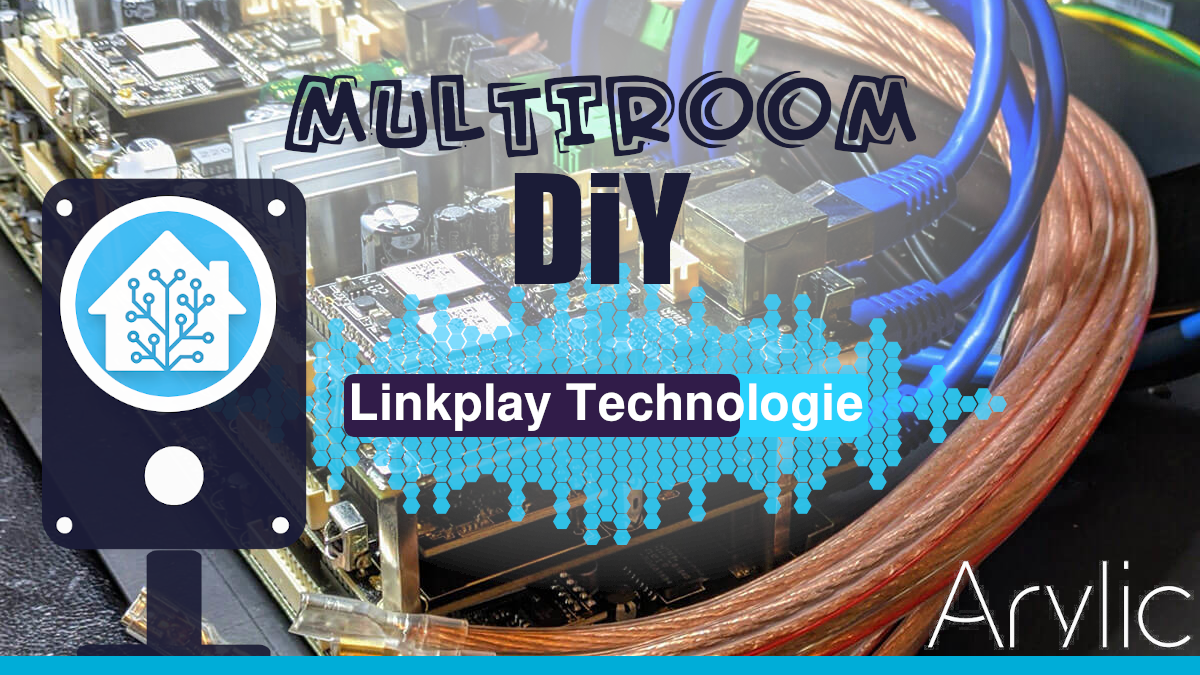
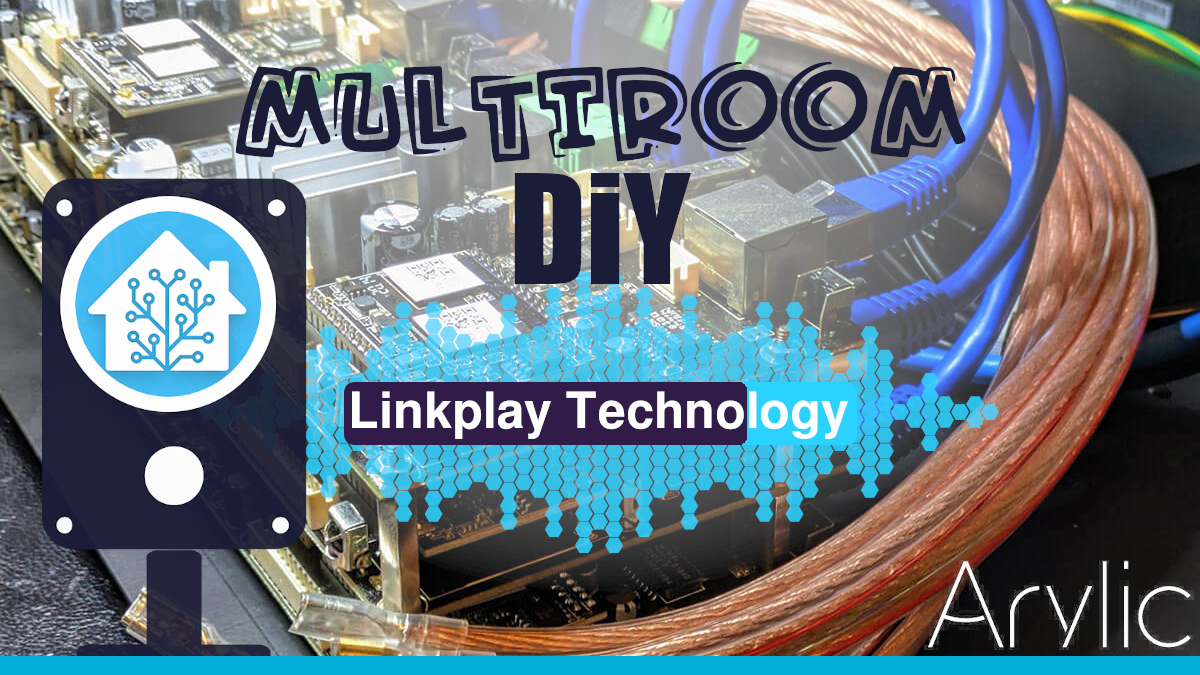
post 39 online

Changed region(s): [[0.2467, 0.3733, 0.8633, 0.84], [0.185, 0.0933, 0.8017, 0.2489]]

diff --git a/_posts/fr/2023-01-18-decouverte-linkplay-alternative-airplay-sonos.md b/_posts/fr/2023-01-18-decouverte-linkplay-alternative-airplay-sonos.md
@@ -4,14 +4,14 @@ title: "Linkplay et Up2stream le multiroom DIY de qualité"
 description: "Découverte du protocole linkplay probablement l'alternative qualité prix la plus intéressante pour faire du multiroom face à airplay et sonos entre autres, le tout intégré dans homeassistant."
 layout: post
 author: Nico
-date: 2023-01-10 18:46
+date: 2023-01-18 18:46
 last_modified_at: 
 categories: [Domotique, Haade-lab, Home-Assistant]
 tags: []
 image: 'multiroom-arylic-linkplay-diy.png'
 toc: true
 beforetoc: ''
-published: false
+published: true
 noindex: false
 sitemap:
   changefreq: 'monthly'
@@ -28,20 +28,21 @@ sourcelink:
   - https://github.com/nagyrobi/home-assistant-custom-components-linkplay#installation
 ---
 
-Voilà quelque temps que je voulais rédiger cet article, comme je ne l'ai pas fait après l'achat de la carte Up2stream Amp V3, mais deux ans plus tard, je peux dire que ce produit à été éprouvé et te faire un retour sur la fiabilité du système linkplay Multi-room.
+Voilà quelque temps que je voulais rédiger cet article, comme je ne l'ai pas fait après l'achat de la carte Up2stream Amp V3, **mais deux ans plus tard**, je peux dire que ce produit a été éprouvé et te faire un retour sur la fiabilité du système linkplay Multi-room.
 
 **prérequis:** 
 
 - 1 [carte Up2stream amp V3 ou V4](https://amzn.to/3XQ1tdN){: target="_blank"}
 - 1 module [d'alimentation multiple Meanwell 12-24v](https://s.click.aliexpress.com/e/_DC0ZHPD){: target="_blank"}
 - 1 ou plusieurs [cordons d'alimentations **093**](https://s.click.aliexpress.com/e/_DnCLRVN){: target="_blank"}
+- Du [cable pour haut-parleur](https://amzn.to/3Xn44vA){: target="_blank"}
 - 1 enceinte stéréo ou 2 monos aux choix minimum 50w ( j'ai choisi une [monitor audio c180 T-2 stéréo](https://www.monitoraudio.com/en/product-ranges/core/c180-t2/){: target="_blank"} )
 - 1 coffret de [rangement Debflex 315cm](https://amzn.to/3CMTNAR){: target="_blank"}
 
 {% include product-embed.html image="arylic-up2stream-amp-v4-multiroom.png" title="Arylic Amp V4" brand="Arylic" description="Up2Stream – amplificateur Audio sans fil V4, 50W x 2, carte son, Multiroom, Streaming sans fil, stéréo, décodage DAC, réception Audio" affiliate="_DcuIO5Z" amazlink="3ZKq8SK" %}
 
 
-# Ce qui m'intéressait 
+# Ce qui m'a séduit, le "faire soi même"
 
 Je me suis orienté naturellement vers la **technologie linkplay** car elle permet aux fabriquants de créer toutes sortes de produits ( diy ou fini ) tout en réduisant les risques liés à la conception des produits.
 
@@ -54,22 +55,28 @@ Je me suis orienté naturellement vers la **technologie linkplay** car elle perm
 - Une performance sans fil optimales pour le Wi-Fi et le Bluetooth avec une optimisation RF minutieuse et un étalonnage de la production
 - Les modules en raison du grand volume d'expéditions annuelles
 
-Linkplay fabrique des modules:
+**Linkplay fabrique des modules:**
 
 - wifi
 - contrôle à la voix
 - bluetooth
 - iot
 
-Les modules linkplay sont compatibles avec beaucoup de [protocoles et de services de musique en streaming](https://www.linkplay.com/app){: target="_blank"} en autre:
+Les modules linkplay sont compatibles avec beaucoup de [protocoles et de services de musique en streaming](https://www.linkplay.com/app){: target="_blank"} entre autre:
 
 Spotify, Tidal, Airplay, Airplay 2, Tunein, Deezer, Napster, Dlna, Qobuz, etc...
 
 #  Companion app ( 4stream )
 
-|![image animée de l'application 4stream par linkplay]({{ site.baseurl}}/assets/images/posts/{{ page.guid }}/4stream.webp{{ cachebuster }}){: width="242" height="525"}|[lien direct application companion google play **noté 2,9**](https://play.google.com/store/apps/details?id=com.wifiaudio.Stream&hl=fr&gl=US&pli=1){: target="_blank"}
+Parlons de l'application qui est nécessaire pour la mise à jour du firmware, pour le reste tu peux contrôler ton système directement dans Homeassistant.
+
+![image animée de l'application 4stream par linkplay]({{ site.baseurl}}/assets/images/posts/{{ page.guid }}/4stream.webp{{ cachebuster }}){: width="242" height="525"}
+
+[lien direct application companion google play **noté 2,9**](https://play.google.com/store/apps/details?id=com.wifiaudio.Stream&hl=fr&gl=US&pli=1){: target="_blank"}
+
 [lien direct application companion App store **noté 3,1**](https://apps.apple.com/fr/app/4stream/id1446722739){: target="_blank"}
-Malgré une notation faible c'est un logiciel fiable, mais pour tout de dire je l'utilise peut car d'une part j'utilise l'intégration linkplay dans homeassistant mais aussi directement Spotify.|
+
+Malgré une notation faible c'est un logiciel fiable, mais pour tout de dire je l'utilise peut car d'une part j'utilise l'intégration linkplay dans homeassistant mais aussi directement dans Spotify.
 
 # Utilisation des produits [Up2stream](https://fr.aliexpress.com/store/5047150?spm=a2g0o.detail.1000007.1.1214233a9V1zdT){: target="_blank"}
 
@@ -89,7 +96,8 @@ Voilà j'ai pu faire l'installation au grenier dans une boîte de dérivation [d
 2. Une [carte Up2stream amp V3](https://amzn.to/3XQ1tdN){: target="_blank"}, actuellement remplacé par une V4
 3. [Un switch Tp-link](https://amzn.to/3ZAThj4){: target="_blank"} afin de pouvoir y connecter plusieurs cartes en rj45
 
-L'avantage de la cartte up2stream réside dans le fait qu'on puisse s'y connecter en rj45, wifi ou Bluetooth
+L'avantage de la carte up2stream réside dans le fait qu'on puisse s'y connecter en rj45, wifi ou Bluetooth.
+> perso j'ai choisi la stabilité du rj45
 
 # Intégration dans Homeassistant avec [HACS](https://github.com/hacs/integration){: target="_blank"}.
 
@@ -116,6 +124,12 @@ media_player:
       sources: {}
       {% endhighlight %}
 
+### Rendu dans HA
+
+dans les paramétrages de homeassistant tu pourras parcourir les médias, contrôler le multiroom, les différentes sources audio, le mode sonore, le volume et bien d'autres choses.
+
+{% picture posts/{{ page.guid }}/home-assistant-integration-multiroom.png --alt integration linkplay dans homeassistant --img width="263" height="570" %}
+
 # Mode Multiroom
 
 Les appareils Linkplay prennent en charge le multiroom en deux modes :
@@ -123,7 +137,12 @@ Les appareils Linkplay prennent en charge le multiroom en deux modes :
 - Mode WiFi direct, où le maître se transforme en point d'accès caché et les esclaves s'y connectent directement. L'avantage est qu'il s'agit d'une connexion directe dédiée entre les enceintes, avec des paramètres réseau optimisés en usine pour le streaming. 
 - Mode routeur, où le maître et les esclaves se connectent via le réseau local **(à partir du micrologiciel v4.2.8020)**.
 
-Cette intégration détectera automatiquement la version du firmware en cours d'exécution sur le lecteur et choisira le mode multiroom en conséquence. Les unités dont la version du micrologiciel est inférieure à v4.2.8020 peuvent se connecter aux multirooms uniquement en mode Wi-Fi direct . Le numéro de version du micrologiciel peut être vu dans les attributs de l'appareil.
+pour connaître et faire la mise à jour du firmware linkplay rend toi dans l'application companion (4stream) > roue crantée > device info, s'il y a une mise à jour elle te sera signalée.
+
+{% picture posts/{{ page.guid }}/device-info-update-firmware.png --alt capture ecran firmware companion 4stream --img width="263" height="516" %}
+
+
+Cette intégration détectera automatiquement la version du firmware en cours d'exécution sur le lecteur et choisira le mode multiroom en conséquence. Les unités dont la version du micrologiciel **est inférieure à v4.2.8020 peuvent se connecter aux multirooms uniquement en mode Wi-Fi direct**.
 
 **Pour créer un groupe multiroom** rien de plus simple, connectez media_player.sound_player2(esclave) à media_player.sound_player1(maître) :
 
@@ -134,10 +153,9 @@ Cette intégration détectera automatiquement la version du firmware en cours d'
         master: media_player.sound_player1
 {% endhighlight %}
 
-**Pour toute les autres options n'hésitez pas à consulter la doc du référentiel**
+[**Pour toute les autres options n'hésitez pas à consulter la doc du référentiel**](https://github.com/nagyrobi/home-assistant-custom-components-linkplay#installation){: target="_blank}
 
-{% picture posts/{{ page.guid }}/interface-mini-media-player.png --alt carte lovelace mini media player --img width="940" height="826 %}
-
+{% picture posts/{{ page.guid }}/interface-mini-media-player.png --alt carte lovelace mini media player --img width="940" height="826" %}
 
 # Notice technique Up2stream ( Anglais )
 
@@ -145,10 +163,26 @@ Cette intégration détectera automatiquement la version du firmware en cours d'
 
 {% include doclink.html pdf="Up2Stream_AMP_V4_Mono_Manual-EN.pdf" title="Notice technique Up2stream amp v4" %}
 
-
 # Utilisation avec Spotify
 
+Je l'utilise uniquement avec spotify mais vu les compatibilités tu ne devrais rencontrer aucun soucis à te connecter avec une des nombreuses autres applications.
+
+Tu peux accéder directement à spotify ou par le biais de 4stream, ensuite rien de plus simple, clic sur l'icone en bas à gauche et tu verras apparaître la connection au Linkplay.
+
+{% picture posts/{{ page.guid }}/connection-spotify.png --alt connection linkplay spotify --img width="263" height="516" %}
+
+# Prix d'une installation.
+
+Pour rappel j'ai fait l'installation dans un coffret et relié une enceinte encastrable dans la salle de bain.
+**Le prix du coffret complet m'est revenu à 220€** pour le fonctionnement d'un pièce, **les prochaines reviendront aux prix du Up2stream soit 100€**
+Ensuite vient le prix de l'enceinte là ça dépend de tes ressources financières **ça va de 50 à 300€**, pense à prendre des enceintes supérieur à 50w en stéréo.
+
 # Conclusion
+
+Après deux ans d'utilisation j'ai connu deux coupures du module, en le relançant tout rentre dans l'ordre. **Mis à part ça tout fonctionne pour le mieux.** Le prix d'une première installation n'est pas toujours des moins onéreuses, mais l'ajout d'autres enceintes et du multiroom revient au coût d'un module et enceintes encastrables. 
+**Sans oublier que le son est de bonne qualité.**
+
+> le site arylic fait des fois des promos n'hésite pas à faire un tour.
 
 
 

diff --git a/_posts/en/2023-01-18-discovery-linkplay-airplay-alternative-sonos.md b/_posts/en/2023-01-18-discovery-linkplay-airplay-alternative-sonos.md
@@ -1,0 +1,189 @@
+---
+guid: 39
+title: "Linkplay and Up2stream the quality DIY multiroom"
+description: "Discovery of the linkplay protocol, probably the most interesting quality-price alternative for multiroom with airplay and sonos, among others, all integrated into homeassistant."
+layout: post
+author: Nico
+date: 2023-01-18 18:46
+last_modified_at: 
+categories: [Automation, Haade-lab, Home-Assistant]
+tags: []
+image: 'multiroom-arylic-linkplay-diy.png'
+toc: true
+beforetoc: ''
+published: true
+noindex: false
+sitemap:
+  changefreq: 'monthly'
+  exclude: 'no'
+  priority: 0.5 #between 0.0 to 1.0, 1.0 high priority
+  lastmod:  # date to end modification
+locale: en_GB
+comments: true
+rating:  
+sourcelink:
+  - https://www.arylic.com/
+  - https://www.linkplay.com/
+  - https://fr.aliexpress.com/store/5047150?spm=a2g0o.detail.1000007.1.1214233a9V1zdT
+  - https://github.com/nagyrobi/home-assistant-custom-components-linkplay#installation
+---
+
+I've wanted to write this review for a while, as I didn't after purchasing the Up2stream Amp V3 board, **but two years later**, I can say that this product has been proven and will give you give feedback on the reliability of the linkplay Multi-room system.
+
+**prerequisite:** 
+
+- 1 [ Up2stream card amp V3 ou V4](https://amzn.to/3XQ1tdN){: target="_blank"}
+- 1 [Meanwell 12-24v multiple power supply]aliexpress.com/e/_DC0ZHPD){: target="_blank"} module
+- 1 or more [power cords **093**](https://s.click.aliexpress.com/e/_DnCLRVN){: target="_blank"}
+- From [speaker cable](https://amzn.to/3Xn44vA){: target="_blank"}
+- 1 stereo speaker or 2 mono speakers with a minimum choice of 50w (I chose a [c180 T-2 stereo audio monitor](https://www.monitoraudio.com/en/product-ranges/core/c180-t2/){: target="_blank"} )
+- 1 box of [Debflex storage 315cm](https://amzn.to/3CMTNAR){: target="_blank"}
+
+{% include product-embed.html image="arylic-up2stream-amp-v4-multiroom.png" title="Arylic Amp V4" brand="Arylic" description="Up2Stream - Wireless Audio Amplifier V4, 50W x 2, Sound Card, Multiroom, Wireless Streaming, Stereo, DAC Decoding, Audio Receive" affiliate="_DcuIO5Z" amazlink="3ZKq8SK" %}
+
+
+# What seduced me, the "do it yourself"
+
+I naturally turned to **linkplay technology** because it allows manufacturers to create all kinds of products (diy or finished) while reducing the risks associated with product design.
+
+**Linkplay also provides:**
+
+- reduced time to market
+- Save time on certification and testing costs
+- Security on all SoM
+- Excellent product quality
+- Optimal wireless performance for Wi-Fi and Bluetooth with careful RF optimization and production calibration
+- Modules due to the large volume of annual shipments
+
+**Linkplay manufactures mods:**
+
+- Wireless
+- voice control
+- bluetooth
+- iot
+
+linkplay modules are compatible with many [protocols and music streaming services](https://www.linkplay.com/app){: target="_blank"} among other things:
+
+Spotify, Tidal, Airplay, Airplay 2, Tunein, Deezer, Napster, Dlna, Qobuz, etc...
+
+# Companion app (4stream)
+
+Let's talk about the application that is needed for the firmware update, for the rest you can control your system directly in Homeassistant.
+
+![animated image of 4stream app by linkplay]({{ site.baseurl}}/assets/images/posts/{{ page.guid }}/4stream.webp{{ cachebuster }}){: width="242" height="525"}
+
+[direct link companion app google play **rated 2.9**](https://play.google.com/store/apps/details?id=com.wifiaudio.Stream&hl=fr&gl=US&pli=1){: target="_blank"}
+
+[direct link companion application App store **rated 3.1**](https://apps.apple.com/fr/app/4stream/id1446722739){: target="_blank"}
+
+Despite a low rating it is reliable software, but to be honest I can use it because on the one hand I use the linkplay integration in homeassistant but also directly in Spotify.
+
+# Use of products [Up2stream](https://fr.aliexpress.com/store/5047150?spm=a2g0o.detail.1000007.1.1214233a9V1zdT){: target="_blank"}
+
+I bought in December 2020 the up2stream module manufactured by arylic Amp V3, now replaced by a V4 version, it is to my knowledge the only manufacturer who includes Linkplay technology on Diy cards.
+
+{% include product-embed.html image="arylic-up2stream-amp-v4-multiroom.png" title="Arylic Amp V4" brand="Arylic" description="Up2Stream - Wireless Audio Amplifier V4, 50W x 2, Sound Card, Multiroom, Wireless Streaming, Stereo, DAC Decoding, Audio Receive" affiliate="_DcuIO5Z" amazlink="3ZKq8SK" %}
+
+# Installing hardware
+
+{% picture posts/{{ page.guid }}/installation-up2stream-amp-v3.png --alt installation of the linkplay up2stream multi-room system in the attic --img width="940" height="529" %}
+
+Here I was able to do the installation in the attic in a junction box [debflex of dimension 310x245](https://amzn.to/3CMTNAR){: target="_blank"}.
+
+**This set includes:**
+
+1. One [Meanwell 24v multiple power supply](https://s.click.aliexpress.com/e/_DC0ZHPD){: target="_blank"}, it will allow me to power several up2stream modules in order to do multi-room.
+2. One [Up2stream amp V3 board](https://amzn.to/3XQ1tdN){: target="_blank"}, currently replaced by a V4
+3. [A switch Tp-link](https://amzn.to/3ZAThj4){: target="_blank"} in order to be able to connect several cards in rj45
+
+The advantage of the up2stream card lies in the fact that you can connect to it via rj45, wifi or Bluetooth.
+> personally I chose the stability of the rj45
+
+# Integration in Homeassistant with [HACS](https://github.com/hacs/integration){: target="_blank"}.
+
+Linkplay can be used in Homeassistant with the implementation of the HACS library, to install it follow the official tutorial [HACS](https://github.com/hacs/integration){: target="_blank"}. 
+Then just go to HACS > integration > explore and download repositories.
+Search linkplay and install it.
+
+The configuration is done in the configuration.yaml file of homeassistant.
+[Follow the installation instructions](https://github.com/nagyrobi/home-assistant-custom-components-linkplay#installation){: target="_blank"}
+
+Then the linkplay interface is compatible with [the mini media player card](https://github.com/kalkih/mini-media-player){: target="_blank"}, to install it nothing could be simpler go to HACS > interface > explore and install repositories.
+Search mini media player and install it.
+
+{% highlight yaml %}
+media_player:
+    - platform: linkplay
+      host: 192.168.1.2
+      name: Player 1
+      sources: {}
+
+    - platform: linkplay
+      host: 192.168.1.3
+      name: Player 2
+      sources: {}
+      {% endhighlight %}
+
+### Render in HA
+
+in the settings of homeassistant you can browse the media, control the multiroom, the different audio sources, the sound mode, the volume and many other things.
+
+{% picture posts/{{ page.guid }}/home-assistant-integration-multiroom.png --alt linkplay integration in homeassistant --img width="263" height="570" %}
+
+# Multi-room mode
+
+Linkplay devices support multiroom in two modes:
+
+- Direct WiFi mode, where the master turns into a hidden access point and the slaves connect to it directly. The advantage is that it's a dedicated direct connection between the speakers, with factory-optimized network settings for streaming.
+- Router mode, where master and slaves connect via LAN **(from firmware v4.2.8020)**.
+
+to know and update the linkplay firmware, go to the companion application (4stream) > toothed wheel > device info, if there is an update it will be notified to you.
+
+{% picture posts/{{ page.guid }}/device-info-update-firmware.png --alt screenshot firmware companion 4stream --img width="263" height="516" %}
+
+
+This integration will automatically detect the firmware version running on the player and choose multiroom mode accordingly. Units with firmware version** lower than v4.2.8020 can connect to multirooms only in Wi-Fi direct mode**.
+
+**To create a multiroom group** nothing could be simpler, connect media_player.sound_player2(slave) to media_player.sound_player1(master):
+
+{% highlight yaml %}
+    - service: linkplay.join
+      data:
+        entity_id: media_player.sound_player2
+        master: media_player.sound_player1
+{% endhighlight %}
+
+[**For all other options do not hesitate to consult the repository doc**](https://github.com/nagyrobi/home-assistant-custom-components-linkplay#installation){: target="_blank}
+
+{% picture posts/{{ page.guid }}/interface-mini-media-player.png --alt lovelace mini media player card --img width="940" height="826" %}
+
+# Up2stream technical notice ( English )
+
+{% include doclink.html pdf="Notice-technique-Up2Stream_Amp2.0_v3_en.pdf" title="Technical notice Up2stream amp v3" %}
+
+{% include doclink.html pdf="Up2Stream_AMP_V4_Mono_Manual-EN.pdf" title="Technical notice Up2stream amp v4" %}
+
+# Use with Spotify
+
+I only use it with spotify but given the compatibility you should have no problem connecting with one of the many other applications.
+
+You can access spotify directly or through 4stream, then nothing could be simpler, click on the icon at the bottom left and you will see the connection to Linkplay appear.
+
+{% picture posts/{{ page.guid }}/connection-spotify.png --alt connection linkplay spotify --img width="263" height="516" %}
+
+# Price of an installation.
+
+As a reminder, I installed it in a box and connected a built-in speaker in the bathroom.
+**The price of the complete set came to me at 220€** for the operation of one piece, **the next ones will come back to the Up2stream prices, i.e. 100€**
+Then comes the price of the speaker there it depends on your financial resources ** it goes from 50 to 300 € **, think of taking speakers higher than 50w in stereo.
+
+# Conclusion
+
+After two years of use I have experienced two breaks in the module, by relaunching it everything is back to normal. **Apart from that everything works for the best.** The price of a first installation is not always the least expensive, but the addition of other speakers and the multiroom comes down to the cost of a module and speakers recessed.
+**Not to mention that the sound quality is good.**
+
+> the arylic site sometimes does promotions and does not hesitate to take a look.
+
+
+
+
